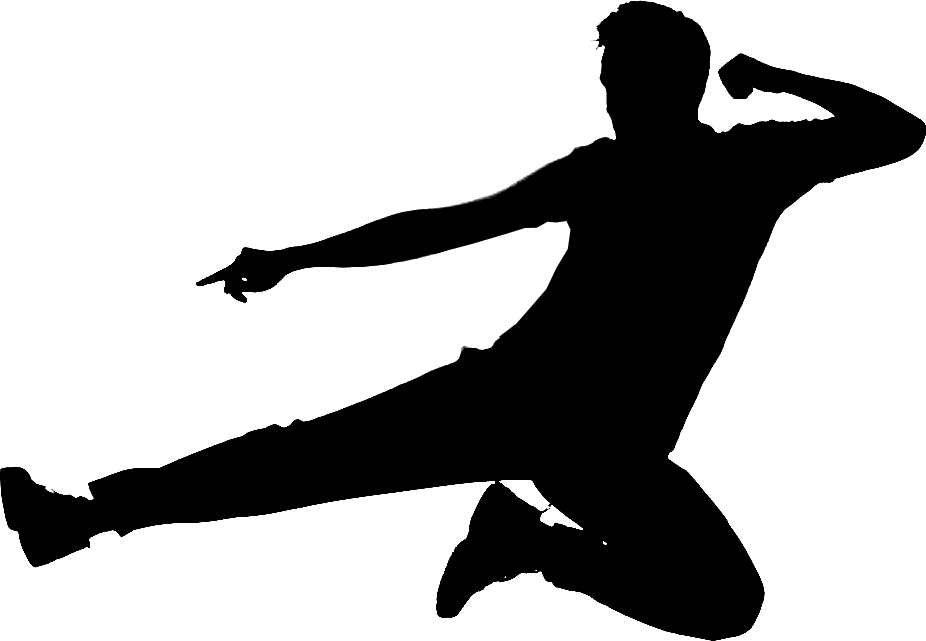
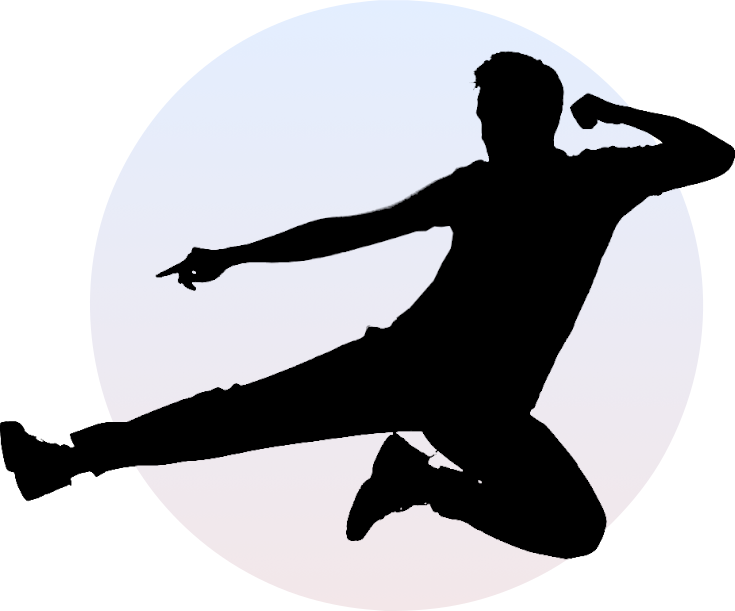
Now Responsive
Made the website responsive!

diff --git a/TaeKwonDoTigers/styles/style.css b/TaeKwonDoTigers/styles/style.css
@@ -18,6 +18,7 @@ h1{
     font-family: OSExtraBold;
     font-size: 36px;
     color: #2b2b2b;
+    padding-bottom: 20px;
 }
 
 p, li{
@@ -39,6 +40,11 @@ main{
     margin: auto;
 }
 
+.desktop{
+    width: 100%;
+    height: 12vh;
+}
+
 nav{
     background-color: #f6f6f6;
     height: 12vh;
@@ -47,7 +53,7 @@ nav{
     display: flex;
     justify-content: center;
     align-items: center;
-    min-width: 400px;
+    /* min-width: 400px; */
     position: fixed;
     z-index: 1000;
     box-shadow: 0 0 20px 5px #000000;
@@ -72,7 +78,6 @@ nav h1{
 .right{
     line-height: 100%;
     min-width: 100%;
-
 }
 
 nav img{
@@ -105,33 +110,23 @@ nav img{
     margin-top: 80px;
     display: flex;
     justify-content: flex-end;
-    height: 400px;
 }
 
 .whyTKDimage{
     width: 40%;
-    display: flex;
-    justify-content: center;
 }
 
-.dot{
-    background-image: linear-gradient(to top, #f3e7e9 0%, #e3eeff 99%, #e3eeff 100%);
-    position: absolute;
-    border-radius: 50%;
-    width: 350px;
-    height: 350px; 
+.whyTKDimage img {
+    max-height: 400px;
 }
 
 .guyKicking{
-    position:absolute;
-    max-height: 300px;
-    align-self: center;
-    justify-self: center;
-    z-index: 1;
+    width: 100%;
 }
 
 .whyTKDcontent{
     width: 60%;
+    padding-left: 50px;
 }
 
 .whyTKDcontent li{
@@ -144,7 +139,7 @@ nav img{
 }
 
 .interested {
-    padding-top: 30px;
+    padding-top: 50px;
     width: 70%;
     margin: auto;
     text-align: center;
@@ -152,7 +147,7 @@ nav img{
 
 button {
     font-family: OSExtraBold;
-    font-size: 36px;
+    font-size: 24px;
     color: #2b2b2b;
 }
 
@@ -161,8 +156,8 @@ button {
     text-align: center;
     border: none;
     border-radius: 40px;
-    width: 280px;
-    height: 75px;
+    width: 150px;
+    height: 50px;
     background-image: linear-gradient(to top, #f3e7e9 0%, #e3eeff 99%, #e3eeff 100%);
     box-shadow: 0 5px 5px;
     box-shadow: 0 5px 20px;
@@ -213,7 +208,7 @@ button {
     text-align: center;
     text-decoration: none;
     border-radius: 50%;
-  }
+}
 
 .fa-facebook {
     background: #3B5998;
@@ -264,3 +259,103 @@ footer {
     margin-bottom: 5px;
 }
 
+@media only screen and (max-width: 1200px) {
+    main{
+        width: 100%;
+    }
+}
+
+@media only screen and (max-width: 1000px){
+    .whatTKDcontent{
+        flex-direction: column;
+    }
+
+    .whatTKD {
+        text-align: center;
+    }
+
+    .whatTKDcontent p{
+        width: 80%;
+        margin: auto;
+        text-align: center;
+    }
+
+    .whatTKDcontent img{
+        padding-top: 50px;
+        width: 40%;
+    }
+
+    .whyTKD{
+        justify-content: flex-end;
+        flex-direction: column-reverse;
+    }
+
+    .whyTKDimage{
+        width: 100%;
+        margin: auto;
+    }
+    
+    .whyTKDcontent{
+        width: 80%;
+        margin: auto;
+        padding-left: 0px;
+    }
+    
+    .whyTKDcontent ul{
+        padding-top: 30px;
+        padding-bottom: 50px;
+        width: 100%;
+        margin: auto;
+        text-align: center;
+        list-style-position: inside;
+    }
+    
+    .whyTKDcontent p, .whyTKDcontent h1{
+        text-align: center;
+    }
+
+}
+
+@media only screen and (max-width: 700px){
+    .whatTKDcontent img{
+        width: 70%;
+    }
+}
+
+@media only screen and (max-width: 650px){
+    nav img{
+        display: none;
+    }
+
+    nav h1{
+        margin-left: 7px;
+        margin-right: 7px;
+        padding-bottom: 0px;
+    }
+
+    .backtotop p{
+        font-size: 18px;
+    }
+
+    .copyright {
+        font-size: 12px;
+    }
+}
+
+@media only screen and (max-width: 500px){
+    .left, .right{
+        display: none;
+    }
+    
+    nav img{
+        display: inline-block;
+    }
+
+    #socials {
+        width: 48px;
+    }
+
+    .fa {
+        padding: 10px;
+    }
+}

diff --git a/TaeKwonDoTigers/index.html b/TaeKwonDoTigers/index.html
@@ -12,9 +12,9 @@
     <div>
         <header>
             <nav>
-                <h1 class="left title">NORTH EAST<br>TAEKWONDO TIGERS</h1>
+                <h1 class="left title">NORTH EAST</h1>
                 <img src="./img/Logos/SVG/logo_transparent.svg" alt="TKD Tigers Logo">
-                <h1 class="right title">STAY ACTIVE<br>DEFEND YOURSELF</h1>
+                <h1 class="right title">TKD TIGERS</h1>
             </nav>
         </header>
         <div class="slideshow" >
@@ -56,8 +56,7 @@
                     </div>
                     <div class="whyTKD">
                         <div class="whyTKDimage">
-                            <img class = "guyKicking" src="./img/guy.png" alt="kick">
-                            <span class="dot"></span>
+                            <img class = "guyKicking" src="./img/Logos/SVG/guy.svg" alt="kick">
                         </div>
                         <div class="whyTKDcontent">
                             <h1>WHY STUDY TAEKWONDO?</h1>
@@ -87,9 +86,6 @@
                             or you can contact us by visiting our social media pages below.
                         </p>
                         <div class="socials">
-                            <!-- <a href="https://www.facebook.com/tkd.tigers.9"><img src="./img/logos/SOCIALS/Facebook.png" alt="Facebook"></a>
-                            <a href="https://www.instagram.com/northeast_tkd_tigers/"><img src="./img/logos/SOCIALS/Instagram.png" alt="Instagram"></a>
-                            <a href="https://twitter.com/NE_tkdTigers"><img src="./img/logos/SOCIALS/Twitter.png" alt="Twitter"></a> -->
                             <a href="https://www.facebook.com/tkd.tigers.9" id="socials" class="fa fa-facebook fa-2x"></a>
                             <a href="https://www.instagram.com/northeast_tkd_tigers/" id="socials" class="fa fa-instagram fa-2x"></a>
                             <a href="https://twitter.com/NE_tkdTigers" id="socials" class="fa fa-twitter fa-2x"></a>

diff --git a/TaeKwonDoTigers/styles/slideshow.css b/TaeKwonDoTigers/styles/slideshow.css
@@ -30,13 +30,19 @@
     overflow: hidden;
 }
 
+@media only screen and (max-width: 1500px){
+    .blurContainer, .blur{
+        display: none;
+    }
+    
+    .image-container{
+        max-width: 100%;
+        height: fit-content;
+    }
+}
+
 .image-container img{
-    position: absolute;
-    top: -100%;
-    bottom: -100%;
-    left: -100%;
-    right: -100%;
-    margin: auto;
+    max-width: 100%;
 }
 
 /* Hide the images by default */
